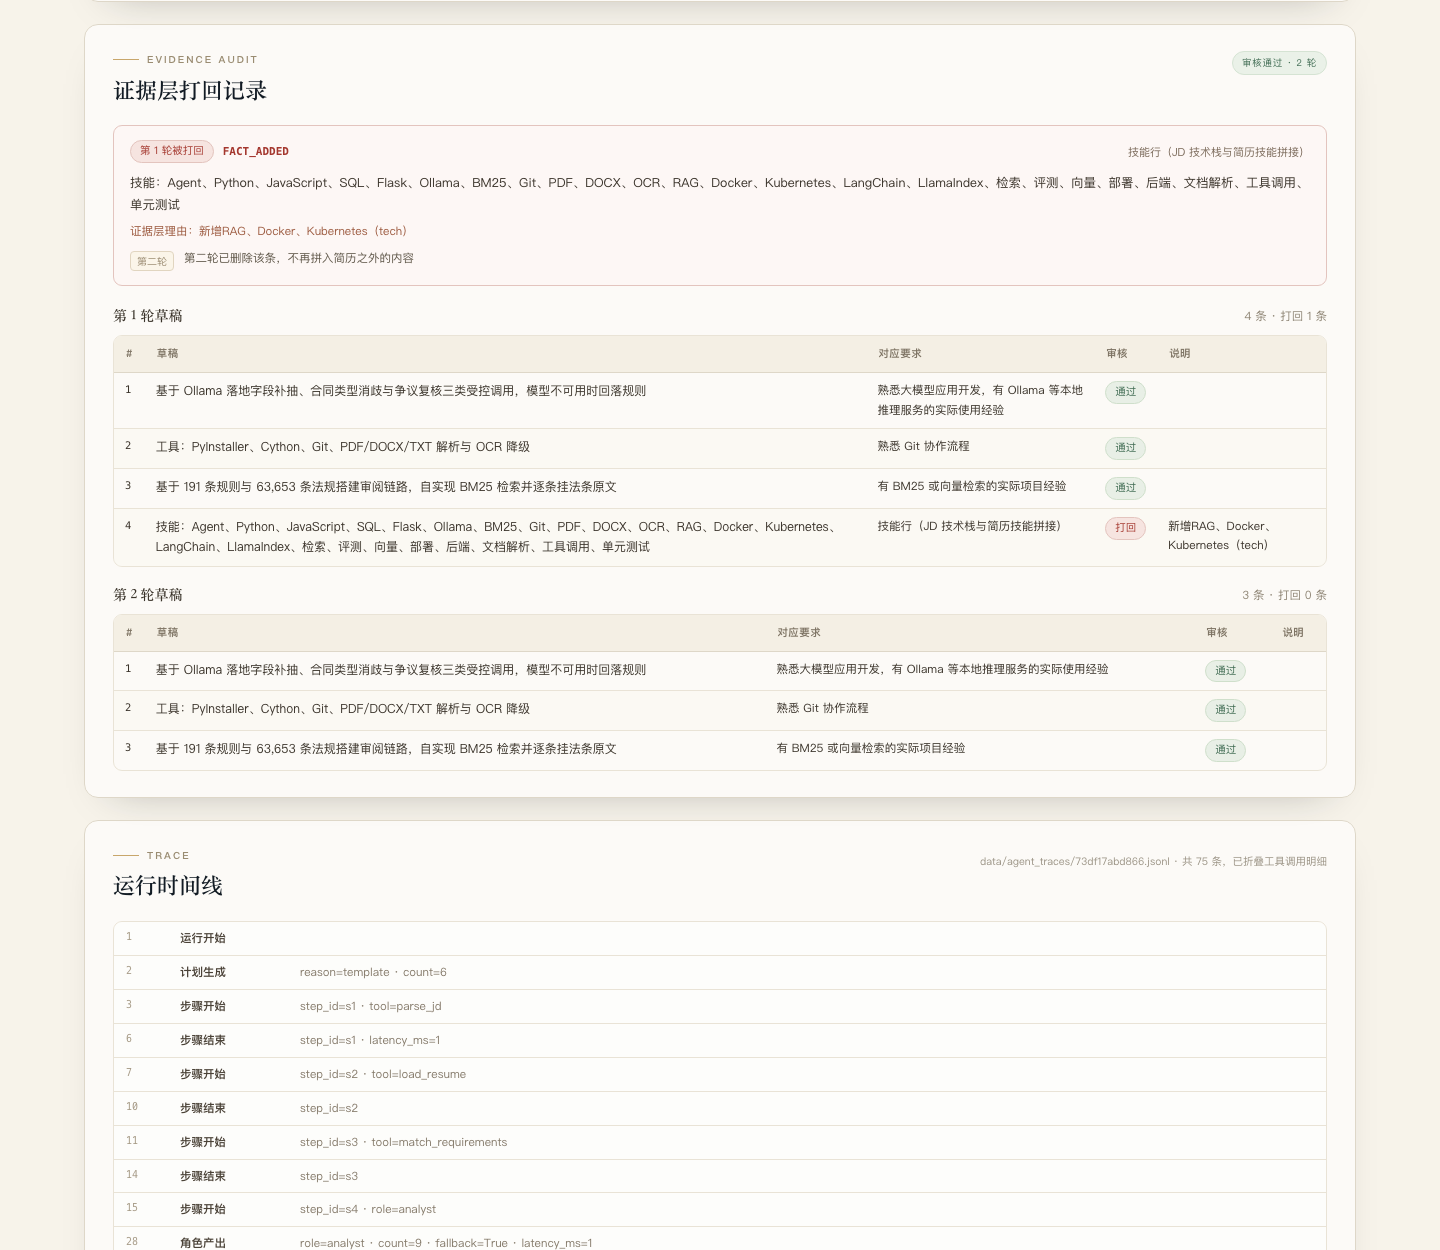
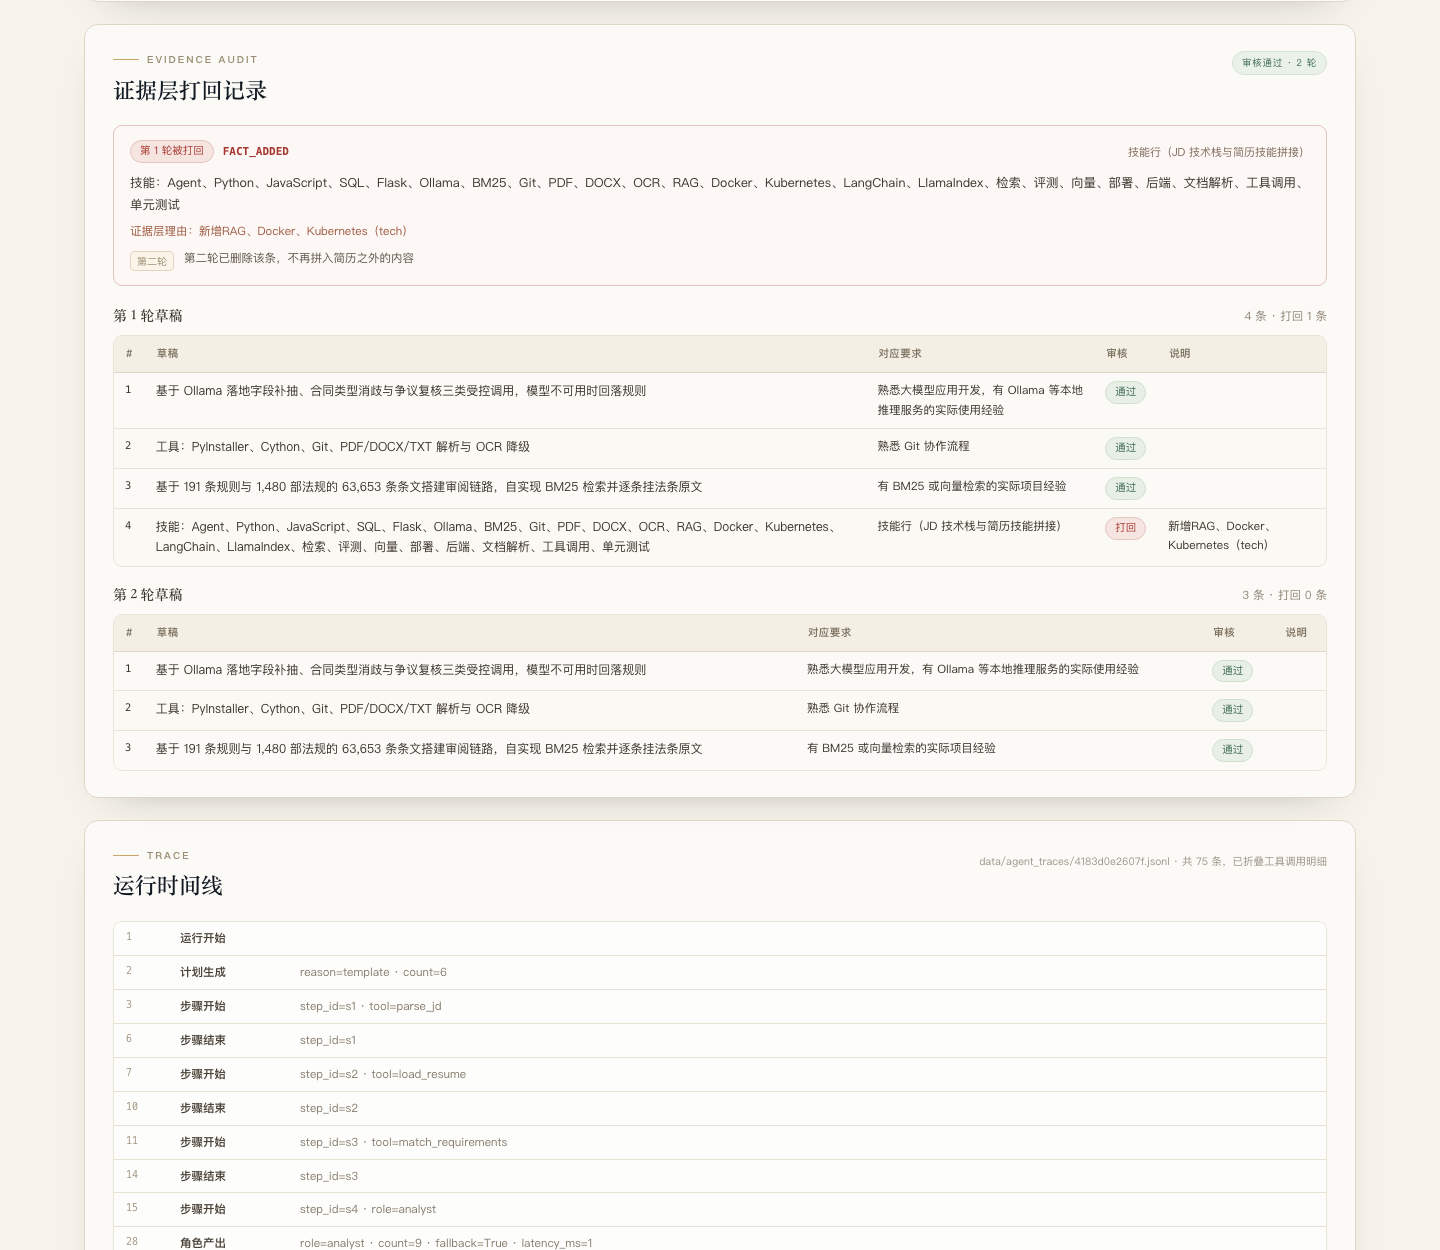
fix: 统一样例简历与仓库声明的口径
样例简历的用例数对齐公开合同仓的 385，法规数改为 1,480 部 / 63,653 条条文，
补充源码行数来源；THIRD_PARTY_NOTICES 不再声称整份样例虚构，改为真实项目改写。
同步更新受影响的截图与动图。

diff --git a/static/app.css b/static/app.css
@@ -1,4 +1,4 @@
-/* Contract LocalScan — 本地合同智能审阅 */
+/* JobSearch Agent · 求职决策演示页 */
 :root{
   --ink:#121B24;
   --ink-2:#1B2733;

diff --git a/cls/agent/executor.py b/cls/agent/executor.py
@@ -80,7 +80,7 @@ class Executor:
     @staticmethod
     def _budget_hit(ctx: RunContext, started: float, count_steps: bool = True) -> str:
         # max_steps 约束计划步骤数（foreach 展开的子步骤不再重复计数，
-        # 展开产生的实际工作量由 max_tool_calls 兜住），否则一份合同几十条
+        # 展开产生的实际工作量由 max_tool_calls 兜住），否则一份文档几十条
         # 命中就会在核查之前耗尽步数。
         if count_steps and int(ctx.state.get("steps", 0)) >= max(1, ctx.budget.max_steps):
             return "max_steps"

diff --git a/cls/agent/adapter.py b/cls/agent/adapter.py
@@ -61,7 +61,7 @@ class OllamaAdapter:
             headers={"Content-Type": "application/json"},
             method="POST",
         )
-        # 显式禁用环境代理，避免合同片段被转发到本机之外
+        # 显式禁用环境代理，避免文档片段被转发到本机之外
         opener = urllib.request.build_opener(urllib.request.ProxyHandler({}))
         try:
             with opener.open(request, timeout=self.timeout) as resp:

diff --git a/cls/agent/trace.py b/cls/agent/trace.py
@@ -1,6 +1,6 @@
 """JSONL trace：事件白名单 + 内容脱敏，逐条 flush。
 
-脱敏原则：trace 只服务于回放与排障，不保存合同原文、文件名、绝对路径。
+脱敏原则：trace 只服务于回放与排障，不保存文档原文、文件名、绝对路径。
 调用方传 ``args`` 时自动折算为 8 位摘要；任何字符串超过 64 字符只留摘要与长度。
 """
 from __future__ import annotations

diff --git a/README.md b/README.md
@@ -152,7 +152,7 @@ tests/                     71 个用例，8 个测试文件
 - 单机单用户。没有账号体系，数据存在本机 `data/`，不支持多人并发。
 - 审核规则只看实体。新增事实按机构、技术、数字、时间四类判定，措辞层面的夸大不会被拦下。
 - 简历解析不含 OCR。扫描件 PDF 会提示改用可复制文字的版本。
-- 样例简历是虚构内容，姓名、公司、邮箱均为占位，不对应真实个人。
+- 样例简历基于作者真实项目的公开描述改写，姓名、公司、邮箱为占位，不对应真实个人；样例 JD 是虚构岗位，不对应真实招聘。
 - 依赖版本未锁定。`requirements.txt` 使用 `>=` 下限，不同时间安装可能得到不同版本。
 - Windows 未纳入 CI，本仓库只在 macOS 上运行验证过。
 
@@ -174,6 +174,9 @@ tests/                     71 个用例，8 个测试文件
 | 简历上传上限 | 25 MB | `cls/parsing.py` 中 `MAX_BYTES` | 单份文件 |
 | JD 字数上限 | 40,000 字 | `cls/scenarios/jobsearch/web.py` 中 `MAX_JD_CHARS` | 超出直接报错，不截断 |
 | 简历字数上限 | 80,000 字 | `cls/scenarios/jobsearch/web.py` 中 `MAX_RESUME_CHARS` | 同上 |
+| 样例简历中的合同工具用例 | 385 个 | 公开仓 [contract-local-scan-demo](https://github.com/LHQCOCO/contract-local-scan-demo) 的 README，或在该仓库执行 `python -m pytest tests --collect-only -q` | 不是本仓库的 71 个 |
+| 样例简历中的规则与法规 | 191 条规则、1,480 部法规、63,653 条条文 | 同上的 README | 法规数是部数，63,653 是条文数 |
+| 样例简历中的源码行数 | Python 12,840 行、前端 2,565 行 | 在同上的仓库执行 `find . -name "*.py" -o -name "*.js" \| xargs wc -l` | 不含文档与样例数据 |
 | 演示动图 | 21 帧 / 共 11,600 ms | `python -c "from PIL import Image, ImageSequence; im=Image.open('docs/demo.gif'); print(len(list(ImageSequence.Iterator(im))), sum(f.info['duration'] for f in ImageSequence.Iterator(im)))"` | 900×625，页面录制后合成，相同画面已合并 |
 
 ## 许可

diff --git a/samples/jobs/resume_sample.md b/samples/jobs/resume_sample.md
@@ -12,13 +12,13 @@
 
 ## 项目经历
 
-### 合同本地审阅工具（个人产品，已上架）
+### 合同本地审阅工具（个人项目，公开演示版）
 
-- 负责 Python 后端与 5.1k 行原生 JavaScript 前端，累计 12k 行代码
+- 负责 Python 后端与原生 JavaScript 前端，后端约 12.8k 行、前端约 2.6k 行
 - 实现 PDF/DOCX/TXT 解析与扫描件识别，OCR 不可用时自动降级
-- 基于 191 条规则与 63,653 条法规构建审阅链路，自实现 BM25 检索并逐条挂法条原文
+- 基于 191 条规则与 1,480 部法规的 63,653 条条文构建审阅链路，自实现 BM25 检索并逐条挂法条原文
 - 接入 Ollama 完成字段补抽、合同类型消歧与争议复核三类受控调用，模型不可用时回落规则
-- 编写 422 条自动化测试用例，覆盖解析、规则、授权与导出
+- 编写 385 条自动化测试用例，覆盖解析、规则与导出；公开演示版见 github.com/LHQCOCO/contract-local-scan-demo
 
 ## 教育经历
 

diff --git a/THIRD_PARTY_NOTICES.md b/THIRD_PARTY_NOTICES.md
@@ -12,4 +12,6 @@
 
 前端没有引入第三方框架或字体，`static/` 下的样式与脚本为本仓库自带；页面图标使用内联 SVG。
 
-`samples/jobs/` 下的 JD 与简历为演示用虚构内容，姓名、公司、邮箱均为占位，不对应真实个人或岗位。
+`samples/jobs/` 下的简历基于作者真实项目的公开描述改写，姓名、公司、邮箱已替换为占位符，不对应真实个人。简历中的项目指标（385 个用例、191 条规则、1,480 部法规 / 63,653 条条文、源码行数）取自公开仓 [LHQCOCO/contract-local-scan-demo](https://github.com/LHQCOCO/contract-local-scan-demo) 的 README 与源码统计，不是虚构数据。
+
+`samples/jobs/jd_ai_agent.md` 是虚构的岗位描述，公司与岗位不对应真实招聘需求。
